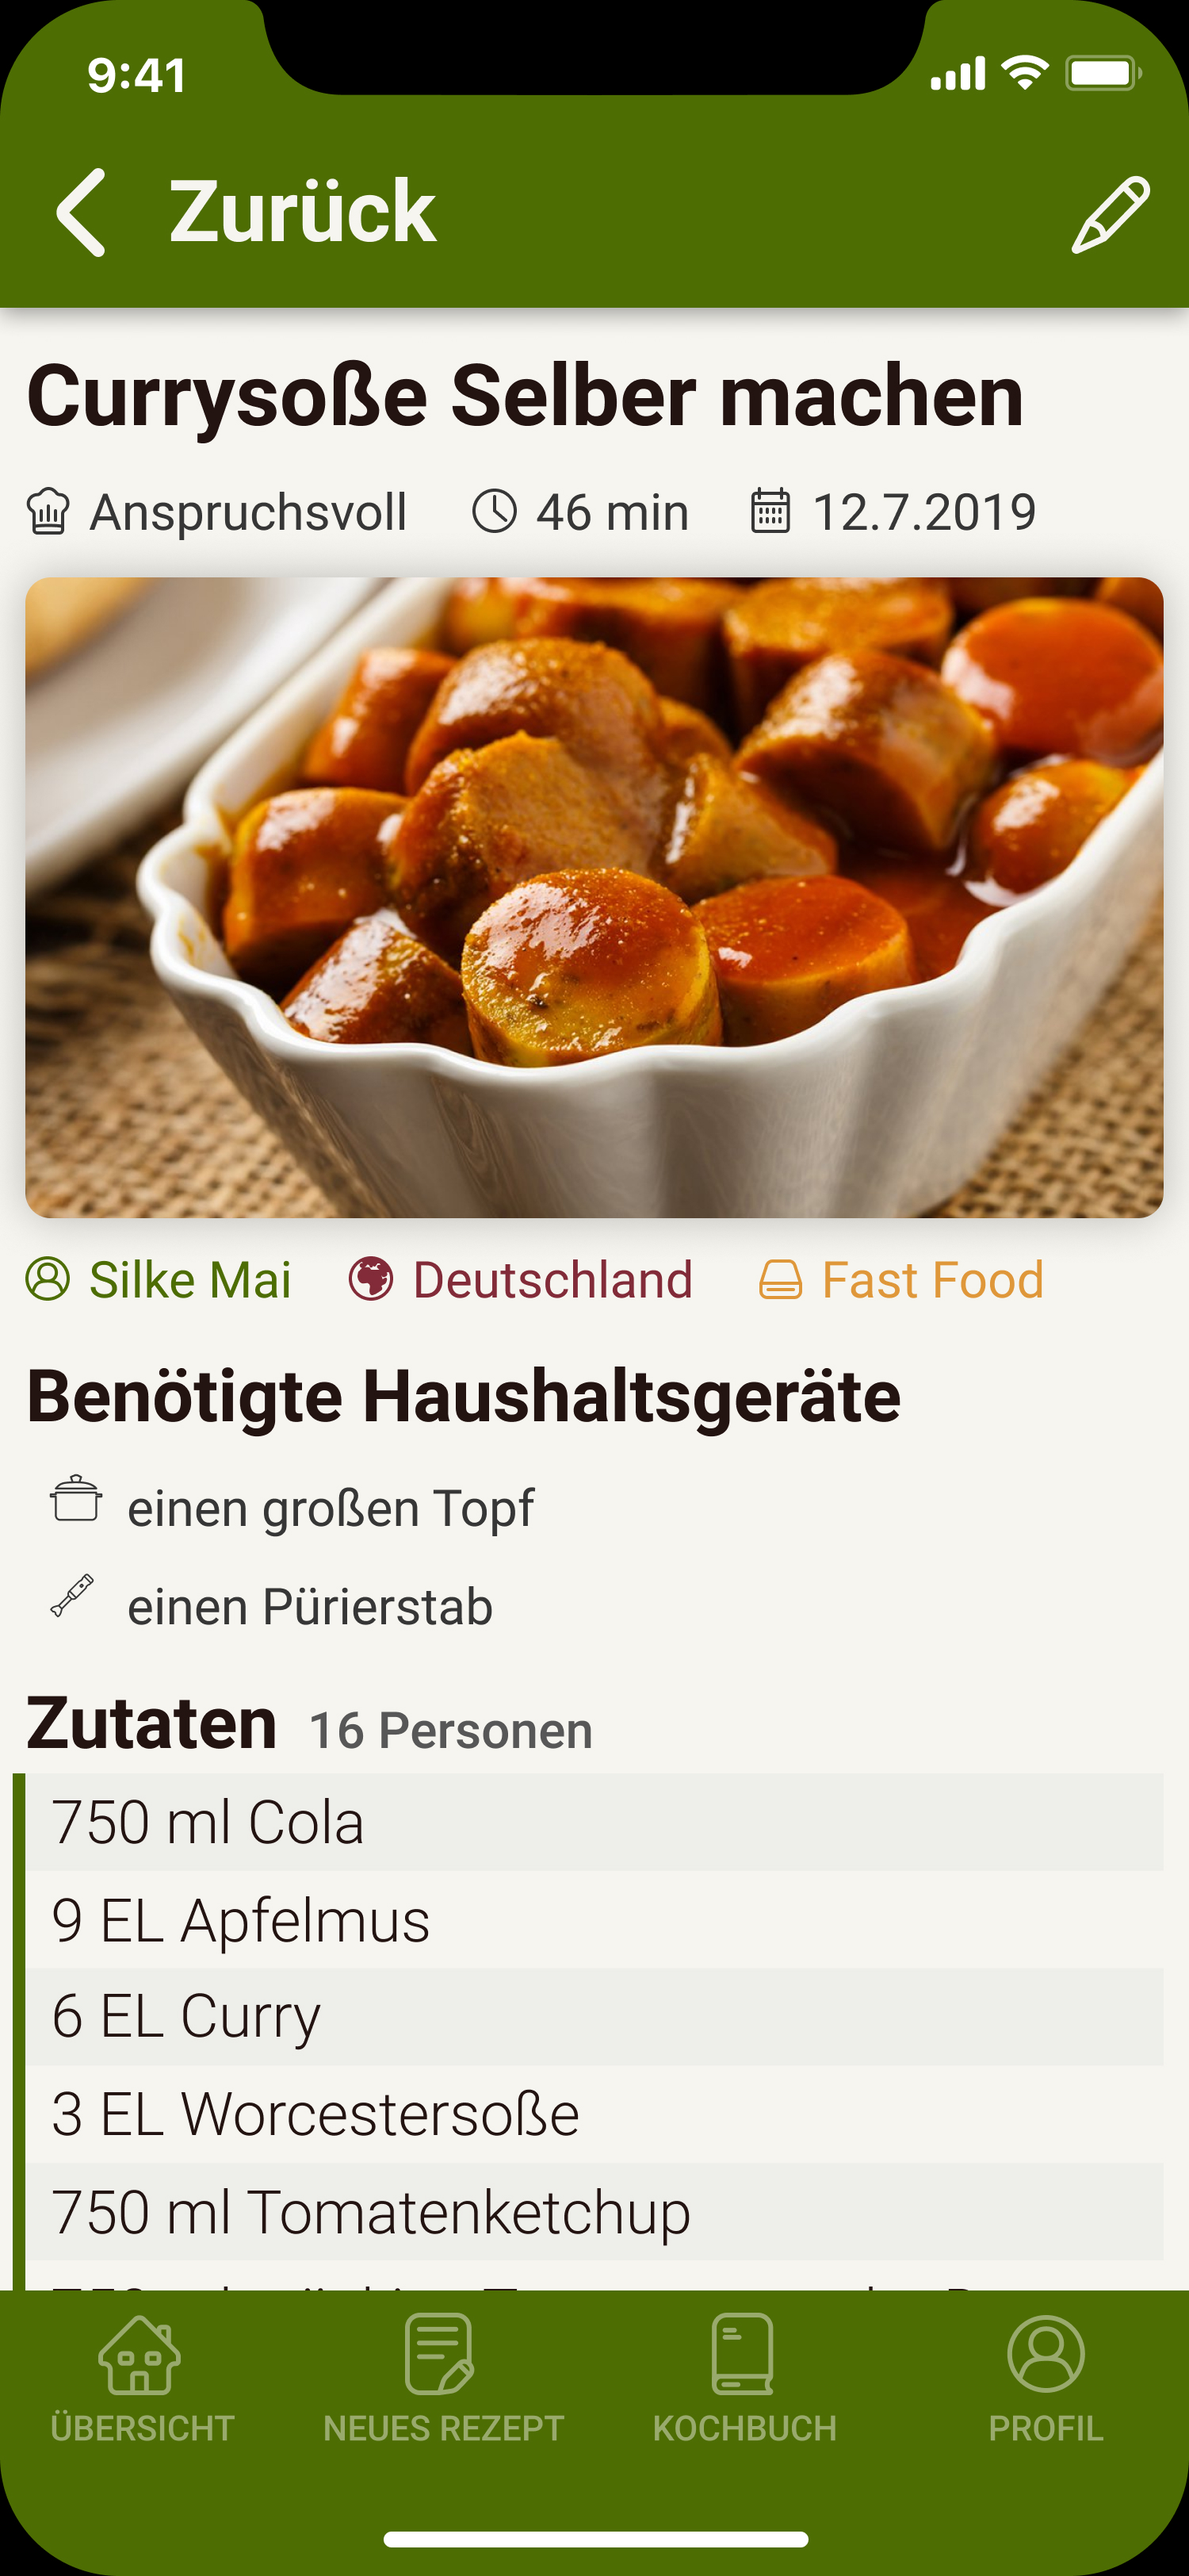
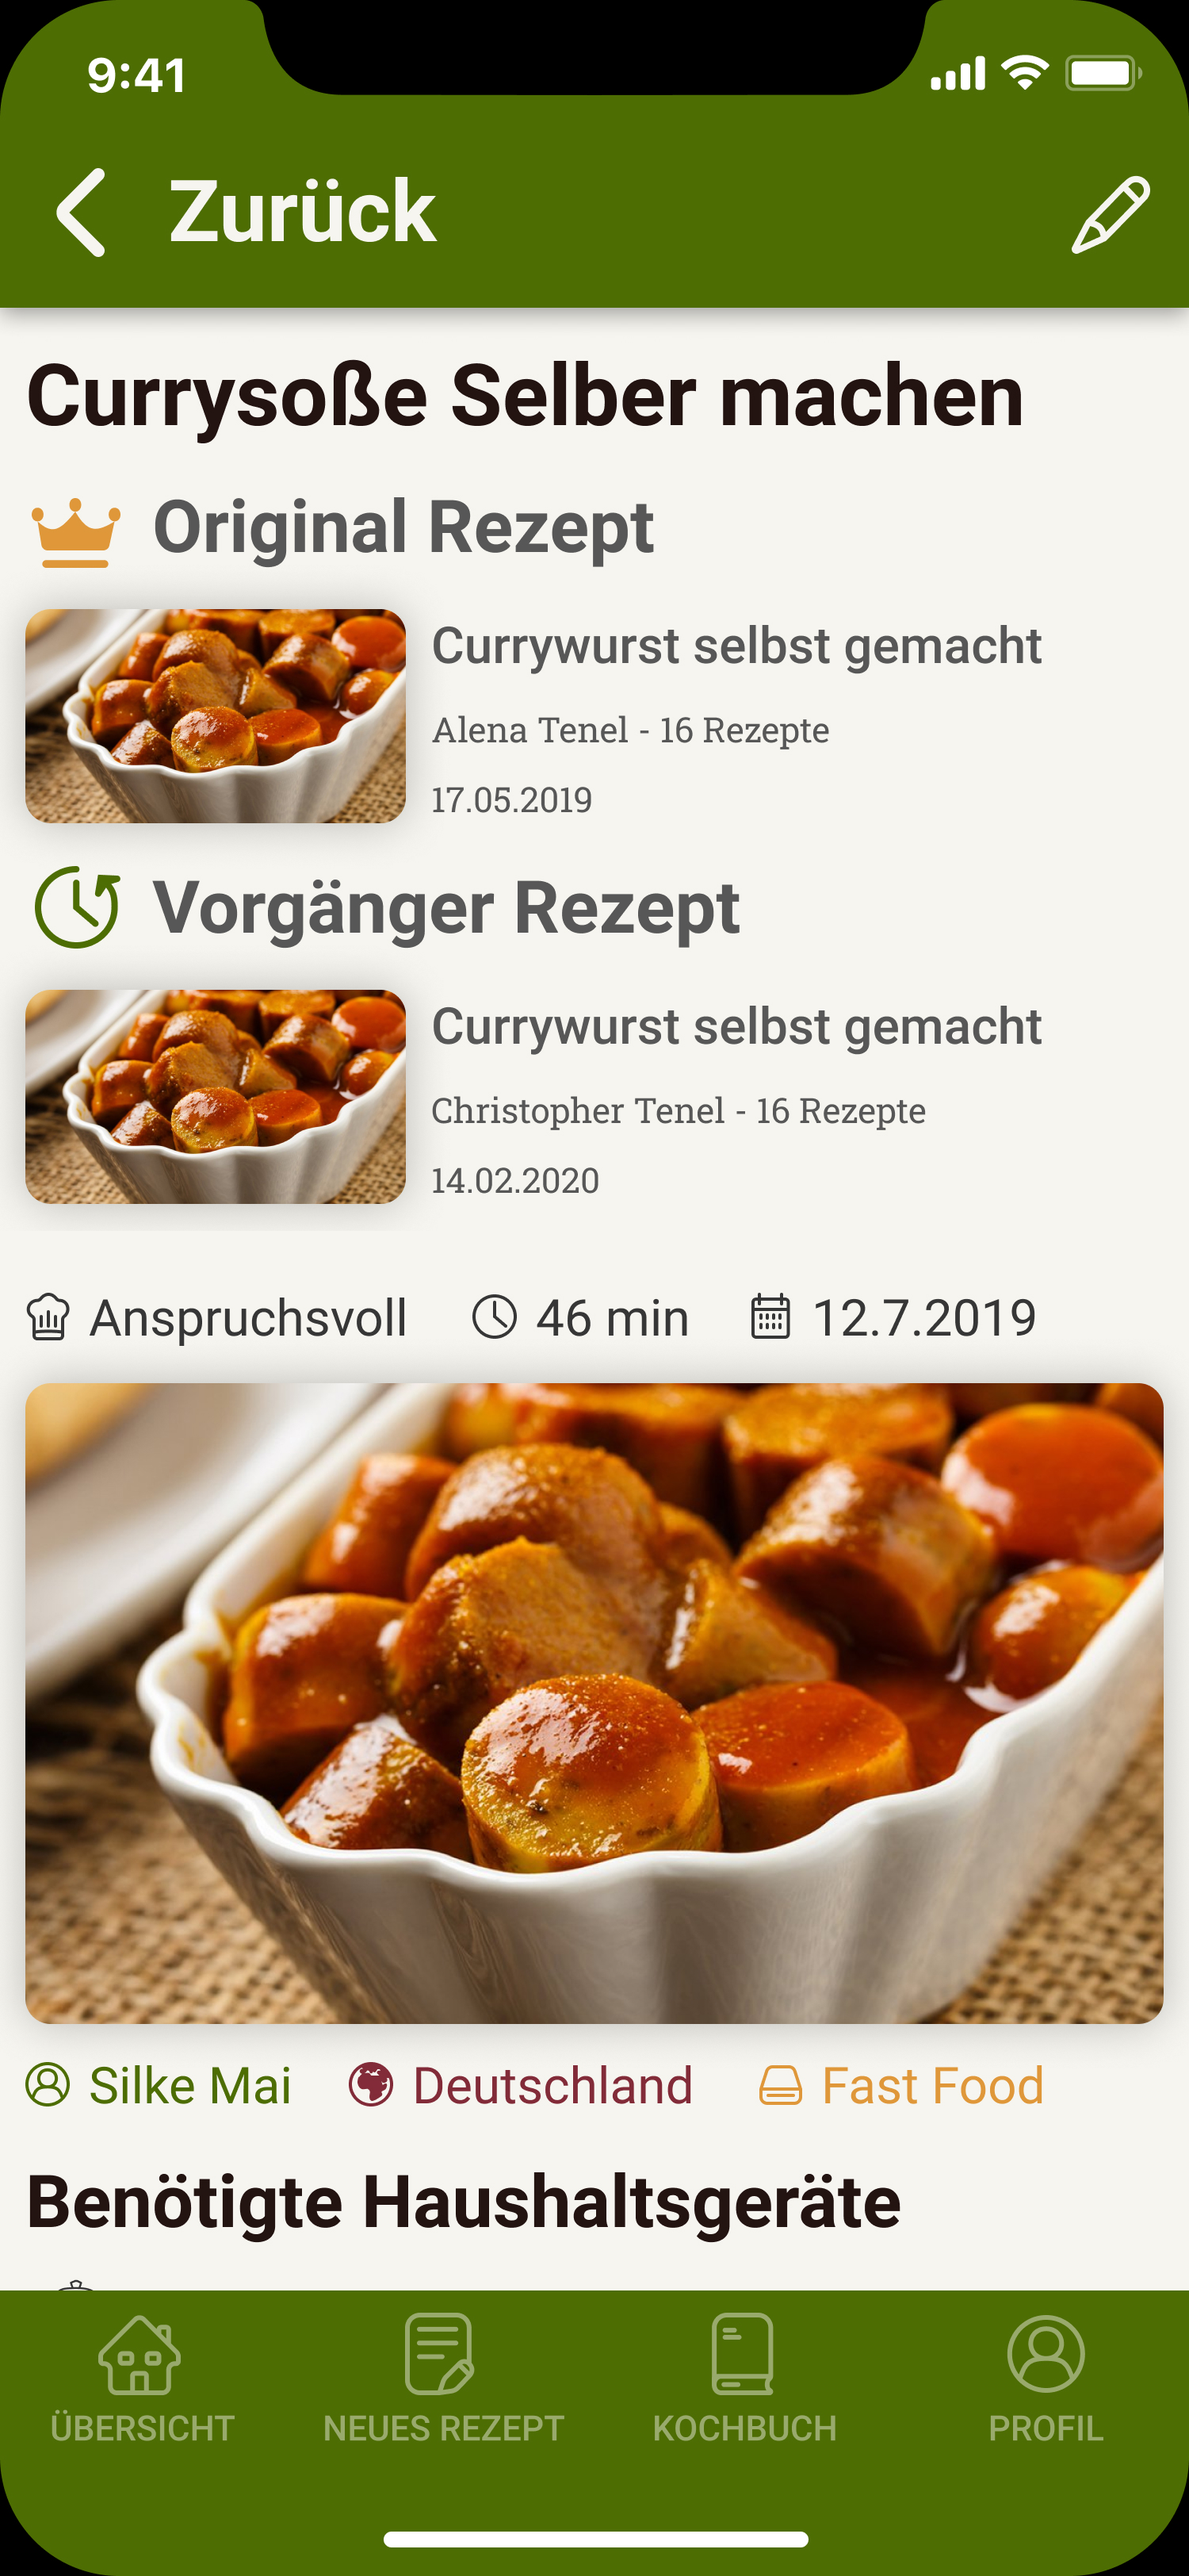
[FEATURE] Add predecessor and original recipe

diff --git a/Artefakte/Zeiterfassung/Arbeitsmatrix.md b/Artefakte/Zeiterfassung/Arbeitsmatrix.md
@@ -133,12 +133,12 @@
 | 22       | Interface Design                    | MockUps                                           | [FEATURE]       | Benachrichtigungen und Freundschaftsanfragen                     | 21.09.21        | 12.10.21            |                 | 1,00            |
 | 22       | Interface Design                    | MockUps                                           | [FEATURE]       | Freundschaftsanfrage ausstehend                                  | 21.09.21        | 12.10.21            |                 | 0,50            |
 | 22       | Interface Design                    | MockUps                                           | [FEATURE]       | Login und SignIn Screen                                          | 21.09.21        | 12.10.21            |                 | 0,50            |
+| 22       | Interface Design                    | MockUps                                           | [FEATURE]       | Vorgaenger und Original Rezept                                   | 21.09.21        | 12.10.21            |                 | 1,50            |
 |          |                                     |                                                   |                 |                                                                  |                 |                     |                 |                 |
 |          |                                     |                                                   |                 |                                                                  |                 |                     |                 |                 |
 |          |                                     |                                                   |                 |                                                                  |                 |                     |                 |                 |
 |          |                                     |                                                   |                 |                                                                  |                 |                     |                 |                 |
-|          |                                     |                                                   |                 |                                                                  |                 |                     |                 |                 |
-|          | Stunden insgesamt                   | 296,75                                            | Stunden Seminar | 55                                                               | Stunden Projekt | 241,75              |                 |                 |
-|          |                                     |                                                   | Budget:         | 80                                                               | Budget:         | 73,25               |                 |                 |
+|          | Stunden insgesamt                   | 298,25                                            | Stunden Seminar | 55                                                               | Stunden Projekt | 243,25              |                 |                 |
+|          |                                     |                                                   | Budget:         | 80                                                               | Budget:         | 71,75               |                 |                 |
 |          | Kredits erreicht:                   | 10                                                |                 |                                                                  |                 |                     |                 |                 |
 |          | Kredits erfordert:                  | 15                                                |
